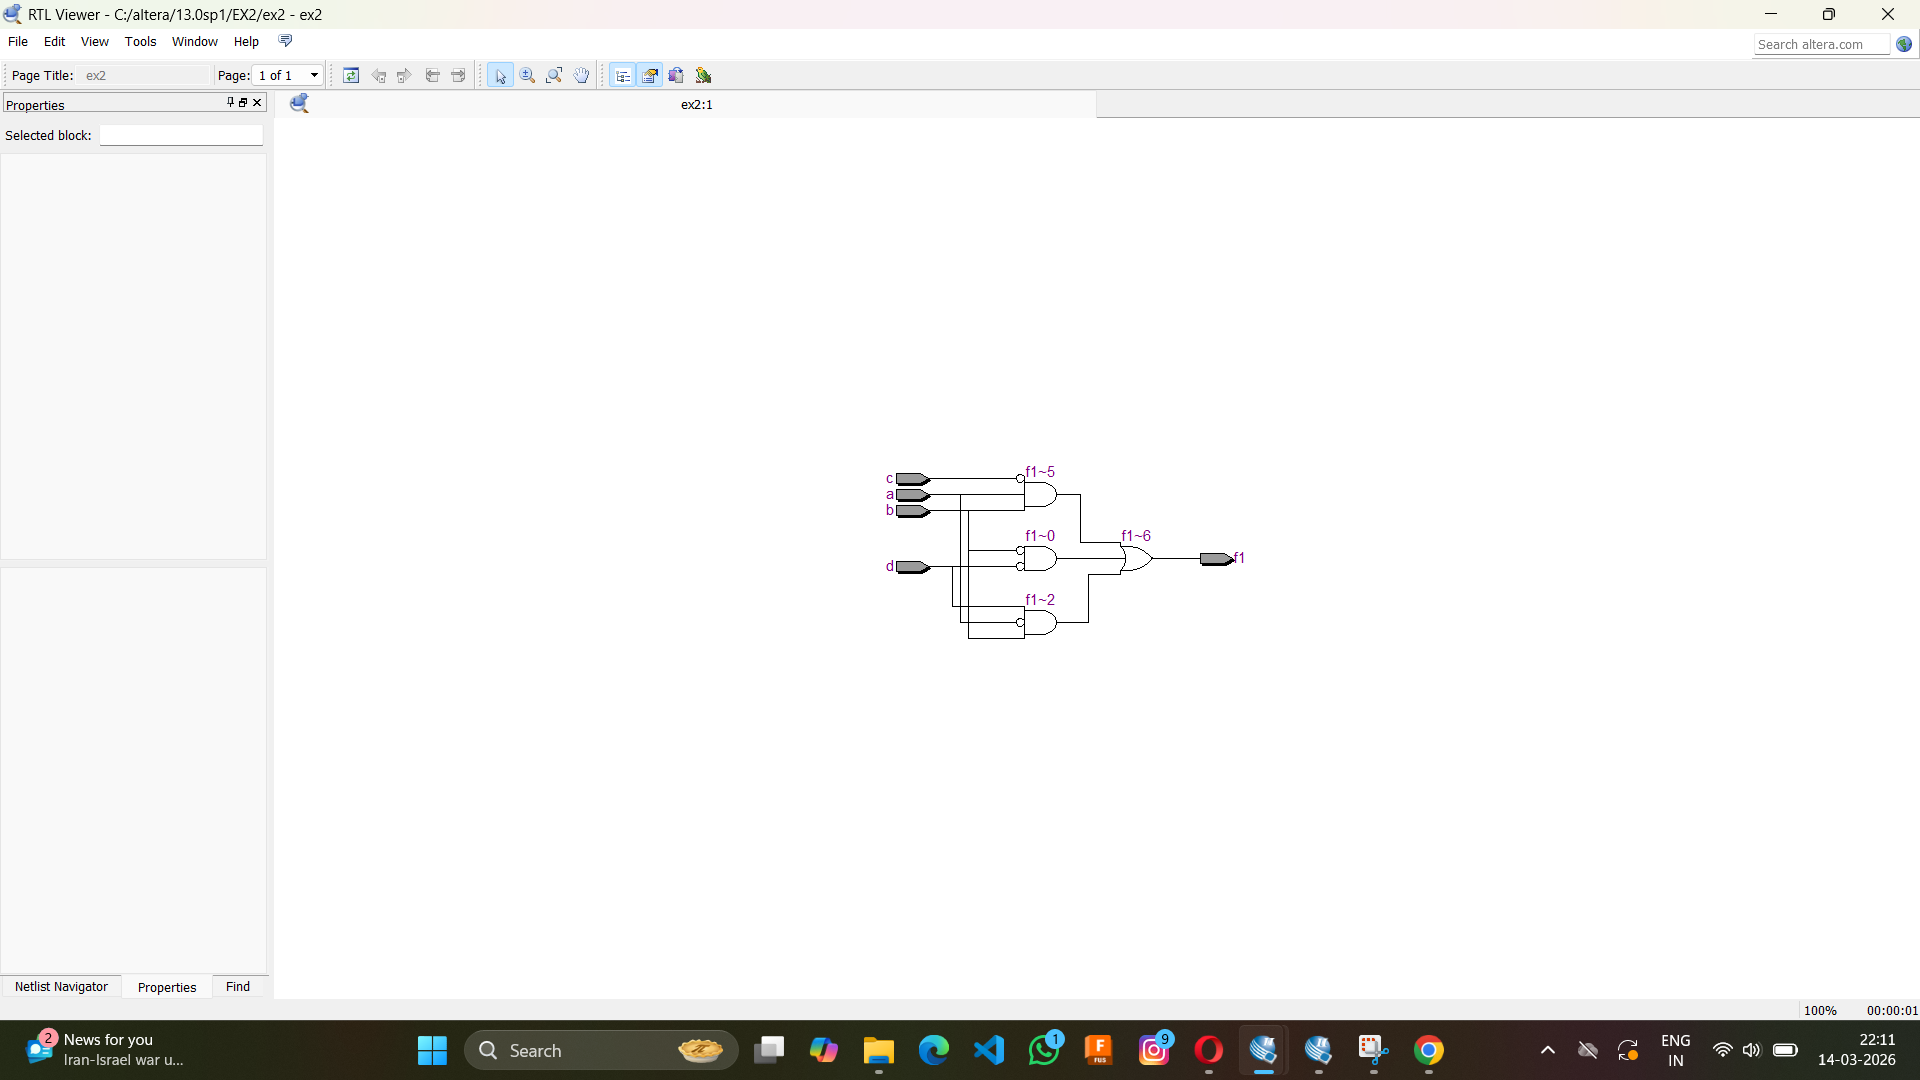
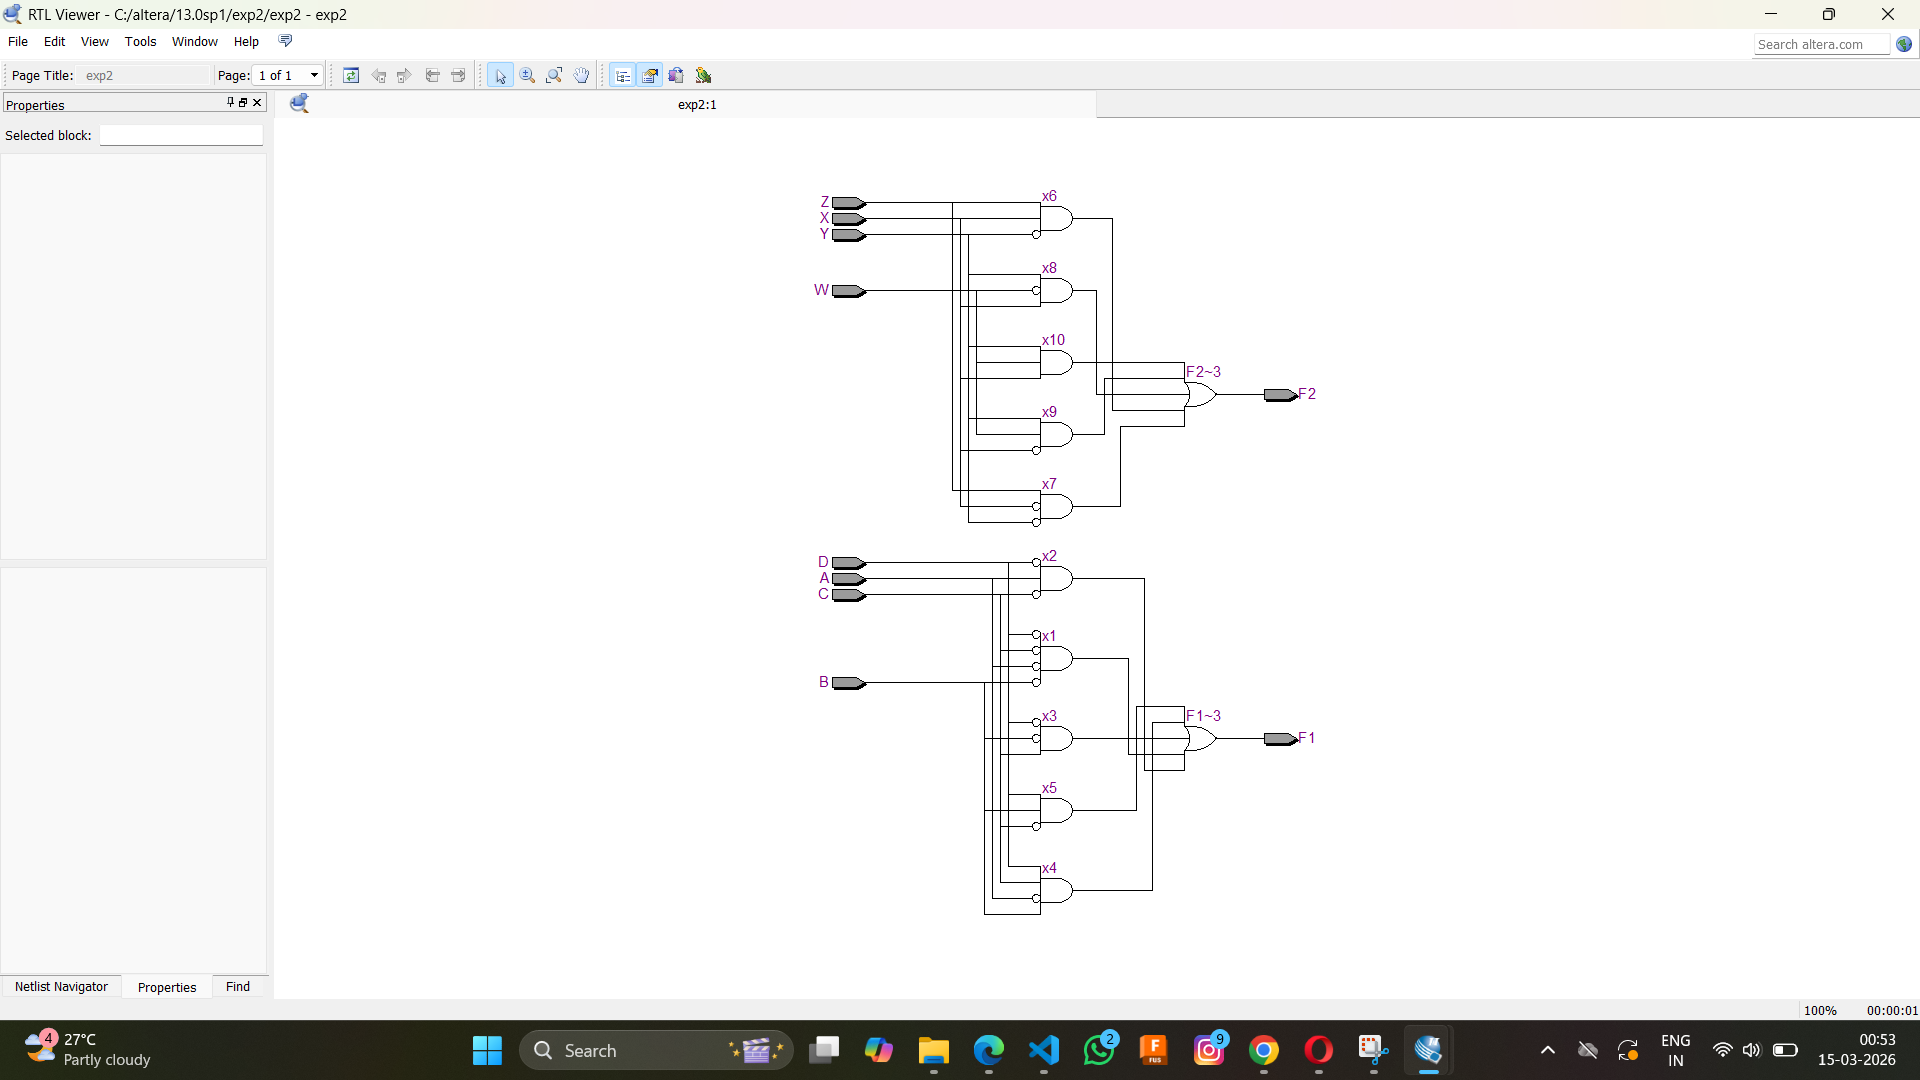
success

diff --git a/README.md b/README.md
@@ -39,30 +39,31 @@ Developed by: SABEEHA PARVEEN K
 RegisterNumber: 212225230233
 
 ```
-i)
-module boolean(a,b,c,d,f1);
-input a,b,c,d;
-output f1;
-assign f1=((~b & ~d)|(~a & b & d)|(a & b & ~c));
-endmodule
-
-ii)
-module bool(w,x,y,z,f2);
-input w,x,y,z;
-output f2;
-assign f2=((~y & z)|( w & y )|(x & y));
+module exp2(A,B,C,D,W,X,Y,Z,F1,F2);
+input A,B,C,D,W,X,Y,Z;
+wire x1,x2,x3,x4,x5,x6,x7,x8,x9,x10; 
+output F1,F2;
+assign x1=(~A)&(~B)&(~C)&(~D);
+assign x2=(A)&(~C)&(~D);
+assign x3=(~B)&(C)&(~D); 
+assign x4=(~A)&(B)&(C)&(D);
+assign x5=(B)&(~C)&(D);
+assign x6=(X)&(~Y)&(Z);
+assign x7=(~X)&(~Y)&(Z);
+assign x8=(~W)&(X)&(Y);
+assign x9=(W)&(~X)&(Y);
+assign x10=(W)&(X)&(Y);
+assign F1=x1|x2|x3|x4|x5;
+assign F2=x6|x7|x8|x9|x10;
 endmodule
 ```
 
 **RTL realization**
 ![alt text](EX2.1.png)
-![alt text](EX2.2.png)
 
 **Output:**
-**RTL**
-![alt text](EX2.3.png)
-![alt text](EX2.4.png)
 **Timing Diagram**
+![alt text](EX2.2.png)
 
 **Result:**
 
